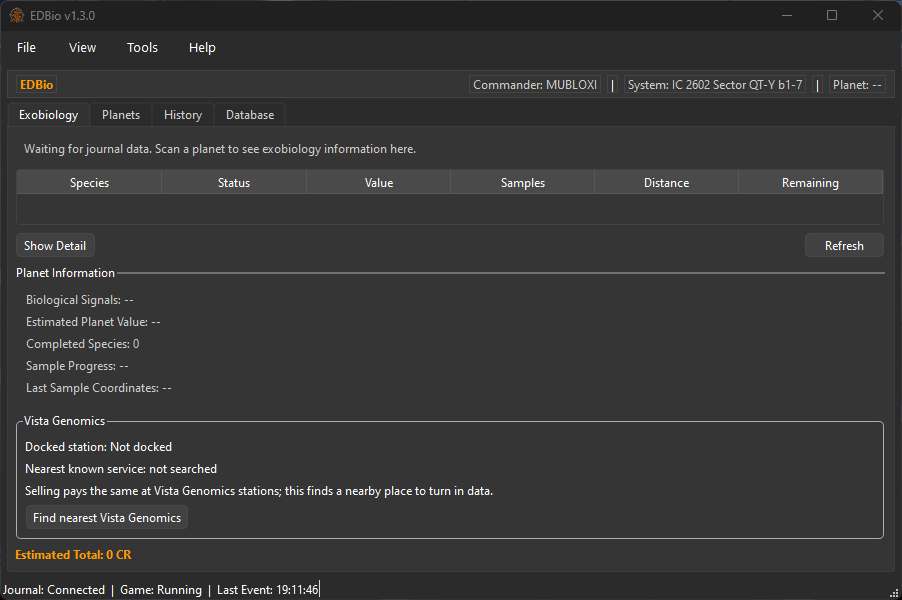
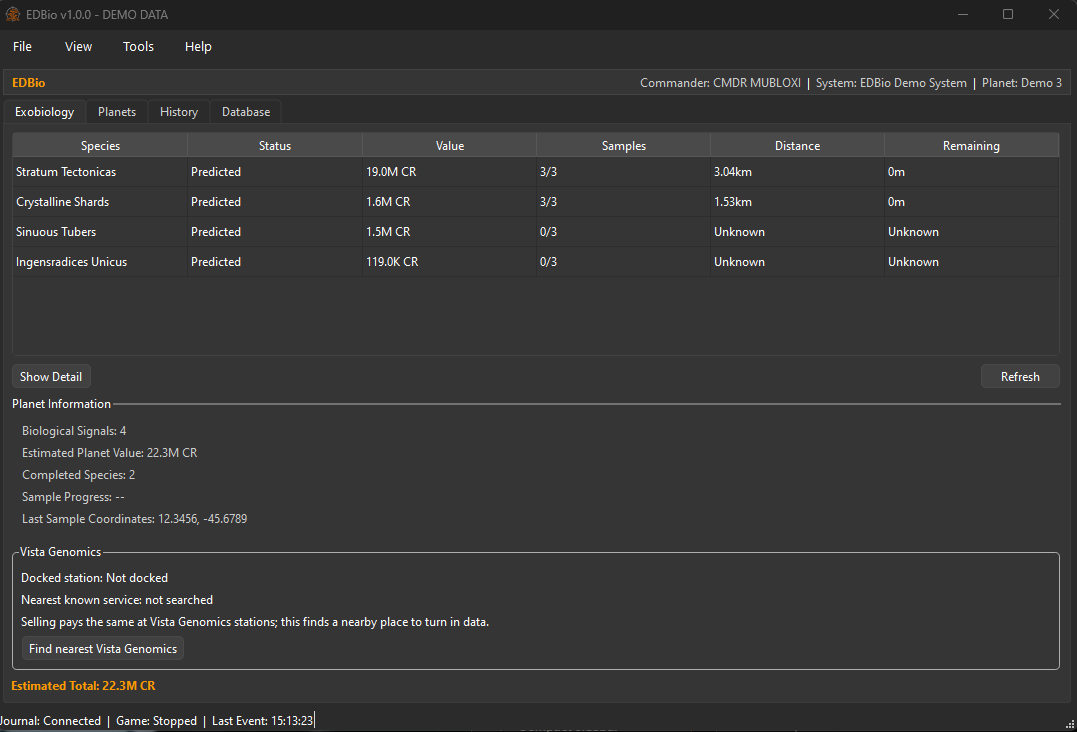
docs: simplify README and add screenshots

diff --git a/README.md b/README.md
@@ -1,94 +1,98 @@
 # EDBio
 
-EDBio is a standalone Windows desktop tool for Elite Dangerous: Odyssey
-commanders who want to keep their exobiology work organized. It follows the
-game's journal as it changes and brings the current commander, system, planet,
-biological signals, sample progress, and estimated Vista Genomics value into
-one compact application. No account or companion service is required.
+EDBio is a Windows app for Elite Dangerous: Odyssey. It reads your game journal
+and helps you track bio signals, possible species, samples, credits, and past
+finds. It works on your PC. You do not need an account.
 
-Use EDBio to move from a planet scan to completed genetic samples: review
-possible species, see what is known about their requirements, track the
-Log / Sample / Analyse sequence, and check the distance needed before taking
-the next sample. Predictions are identified as predictions, not confirmed
-discoveries, and credit values and first-footfall bonuses are estimates rather
-than guaranteed payouts.
+Species are shown as predictions, not confirmed finds. Credit amounts and
+first footfall bonuses are estimates. The game decides the real payout.
 
-EDBio keeps discovery history in a local SQLite database, with search, CSV
-export, database inspection, and backups. Optional sound alerts can notify you
-when an FSS scan finds biological signals, and an optional overlay can show
-bio-signal information while Elite Dangerous is the foreground application.
-The nearby Vista Genomics search uses public Spansh station data to help find a
-turn-in location; station listings may be out of date.
+Your history stays in a local SQLite database. You can search it, export it to
+CSV, view saved data, and make backups. You can also turn on sound alerts and
+an in-game bio overlay. The Spansh search can help find a nearby Vista Genomics
+station. Its station list may be out of date.
 
-## Screenshot
+## Screenshots
 
-![EDBio Exobiology tab captured from the running Windows application](docs/screenshots/edbio-exobiology.png)
+These are screenshots of the Windows app. The commander, system, planets, and
+bio data are fake demo data. They are not from a live game session.
 
-*Direct capture of EDBio v1.3.0. The live session had no biological signals; no mock rows or browser-rendered UI are shown. The interface may differ from the v1.0.0 installer.*
+### Normal theme
+
+![Exobiology tab in the normal theme](docs/screenshots/edbio-exobiology.png)
+![Planets tab in the normal theme](docs/screenshots/edbio-planets.png)
+![History tab in the normal theme](docs/screenshots/edbio-history.png)
+![Settings dialog in the normal theme](docs/screenshots/edbio-settings.png)
+![Database tab in the normal theme](docs/screenshots/edbio-database.png)
+
+### OLED theme
+
+![Exobiology tab in the OLED theme](docs/screenshots/edbio-oled-exobiology.png)
+![Planets tab in the OLED theme](docs/screenshots/edbio-oled-planets.png)
+![History tab in the OLED theme](docs/screenshots/edbio-oled-history.png)
+![Database tab in the OLED theme](docs/screenshots/edbio-oled-database.png)
 
 ## Features
 
-- Reads Elite Dangerous journal files in real time (incremental, handles rotation)
-- Detects the current commander, system, and planet from the journal
-- Lists biological signals and predicted species for the active planet
-- Tracks genetic sample progress using ScanOrganic events (Log / Sample / Analyse)
-- Calculates surface distance from the reference sample using great-circle math
-- Shows estimated Vista Genomics payouts per species and per planet
-- First footfall multiplier shown as an estimate, never guaranteed
-- History tab with search, filtering, and CSV export (stored in SQLite)
-- Database tab for inspecting saved records and creating SQLite backups
-- Rust-backed incremental journal file reading
-- Always-on-top, minimize to system tray, remembers window size and position
-- Optional sound alert when an FSS scan finds biological signals, with grouped
-  previewable sound choices and custom MP3, WAV, or OGG imports
-- Optional in-game bio overlay showing the planet, signal count, and identified
-  genera when available
-- Journal-based docked-station detection and one-click nearby Vista Genomics
-  station search using Spansh station data
-- Manual journal directory selection
-- Settings dialog and About dialog
+- Reads your game journal and keeps up with new log files
+- Shows your commander, system, and planet
+- Shows bio signals and possible species for the current planet
+- Tracks the Log / Sample / Analyse steps and the distance needed for the next sample
+- Shows estimated Vista Genomics credits for species and planets
+- Shows first footfall as an estimate
+- Saves your finds in a history you can search and export to CSV
+- Lets you check saved data and back up the database
+- Uses a Rust reader to load journal files
+- Can stay on top, go to the system tray, and remember its window size
+- Can play a sound when an FSS scan finds bio signals
+- Includes built-in sounds and lets you add MP3, WAV, and OGG files
+- Can show the planet, signal count, and known genera in an in-game overlay
+- Finds your docked station from the journal and can search Spansh for a nearby
+  Vista Genomics station
+- Finds your journal folder and reads old logs into the database
+- Lets you choose the journal folder yourself if needed
+- Includes Settings and About screens
 
 ## Download
 
-Pre-built Windows installers are available on the GitHub Releases page for this
-repository. [Download the EDBio 1.0.0 Windows installer](https://github.com/Mubloxi/EDBio/releases/download/v1.0.0/EDBio-Setup-1.0.0.exe)
-or open the [GitHub Releases page](https://github.com/Mubloxi/EDBio/releases).
-Run `EDBio-Setup-1.0.0.exe` to install EDBio for the current Windows user. The
-desktop shortcut option is checked by default in the installer.
+Get the [EDBio 1.0.0 Windows installer](https://github.com/Mubloxi/EDBio/releases/download/v1.0.0/EDBio-Setup-1.0.0.exe)
+or see the [GitHub Releases page](https://github.com/Mubloxi/EDBio/releases).
+Run `EDBio-Setup-1.0.0.exe` to install the app for your Windows user. The
+installer offers a desktop shortcut, checked by default.
 
 ## How To Use
 
-1. Download and run `EDBio-Setup-1.0.0.exe`. Python does not need to be
-   installed.
-2. On first launch, choose a bio-alert sound and use Preview to test it.
-3. Start Elite Dangerous and load into a game.
-4. EDBio detects the journal directory automatically
-   (%USERPROFILE%\Saved Games\Frontier Developments\Elite Dangerous\).
-   If it doesn't, use File > Journal Directory to pick it manually.
-5. Fly to a planet, scan it, and use the Surface Area Scanner. Biological
-   signals, predicted species, and sample tracking appear in the Exobiology tab.
-6. Land and collect genetic samples. Sample progress, distance required, and
-   distance remaining update as you move.
-7. Use the History tab to review past discoveries and export to CSV.
+1. Download and run `EDBio-Setup-1.0.0.exe`. You do not need to install Python.
+2. The first time you open EDBio, pick a sound and use Preview to hear it.
+3. Start Elite Dangerous and load into the game.
+4. EDBio finds your journal folder and reads its old logs. If it cannot find the
+   folder, use File > Journal Directory to choose it.
+5. Scan a planet and use the Surface Area Scanner. Open the Exobiology tab to
+   see bio signals, possible species, and sample progress.
+6. Land and take samples. EDBio updates the sample count and distance as you move.
+7. Open History to check your past finds or export them to CSV.
 
-Enable the sound alert and the optional overlay in Tools > Settings or View.
-The overlay only appears while Elite Dangerous is the foreground application;
-set the game display mode to Borderless or Windowed for it to appear.
-Add personal alert sounds from Tools > Settings. The Exobiology tab shows your
-docked station and can search Spansh for the nearest listed Vista Genomics
-service using the selected radius (25 to 1000 ly). Selling prices do not depend on
-which Vista Genomics station you use; the search recommends a nearby turn-in
-location, not a higher payout. Station listings are community data and may be
-out of date; an internet connection is required to search.
+Turn on sound alerts and the overlay in Tools > Settings or View. EDBio starts
+with the normal dark gray theme. Choose View > OLED theme for a mostly black
+screen. This also changes the Database tab.
 
-The application opens normally even when Elite Dangerous is closed, showing
-saved data from previous sessions.
+The overlay only shows while Elite Dangerous is the active window. Set the
+game to Borderless or Windowed mode to use it.
+
+You can add your own sounds in Tools > Settings. The Exobiology tab shows your
+docked station and can search Spansh for a nearby Vista Genomics station.
+Choose a search range from 25 to 1000 ly. The station does not change your
+payout. Spansh data may be out of date, and station search needs an internet
+connection.
+
+EDBio can also open when the game is closed. It will show data saved from
+earlier sessions.
 
 ## Requirements
 
 - Windows 10 or Windows 11
-- Elite Dangerous with Odyssey (for journal-based tracking)
-- No Python installation required for the pre-built executable
+- Elite Dangerous with Odyssey, if you want journal tracking
+- No Python needed for the installer
 
 ## Building From Source
 
@@ -117,24 +121,23 @@ python build_exe.py
 ISCC.exe installer\EDBio.iss
 ```
 
-The source build requires Python 3.12+, PySide6-WebEngine, Node.js/npm,
-Rust/Cargo, and the Microsoft C++ Build Tools workload. `--components-only`
-configures the local Rust extension and compiles the web panel before running
-from source. The executable and installer are written to `dist\`.
-Station searches use the public Spansh stations API
-(`https://spansh.co.uk/api/stations/search`); no API key or commander account
-is required.
+To build from source, you need Python 3.12 or newer, PySide6-WebEngine,
+Node.js/npm, Rust/Cargo, and Microsoft C++ Build Tools.
+`--components-only` builds the Rust reader and database panel so you can run
+from source. The app and installer are saved in `dist\`.
+
+Station search uses Spansh public data
+(`https://spansh.co.uk/api/stations/search`). You do not need an API key or
+commander account.
 
 ## Known Issues
 
-- Species prediction relies on community-documented environmental requirements.
-  Some species have incomplete requirement data and are shown with whatever is
-  known; missing requirements do not prevent a prediction but reduce confidence.
-- First footfall bonuses are estimates. The game determines actual first
-  footfall eligibility, which EDBio cannot verify from the journal.
-- Genetic distance tracking requires the player to be on the planet surface
-  with latitude and longitude available (Touchdown event). Without coordinates,
-  distance is shown as Unknown.
+- Some species data is incomplete. EDBio shows what is known, but may list
+  extra possible species when details are missing.
+- The game decides who gets first footfall. EDBio cannot check this from the
+  journal, so the bonus is only an estimate.
+- Distance tracking needs your location on the planet. If the journal has no
+  latitude or longitude, EDBio shows the distance as Unknown.
 
 ## Credits
 
@@ -148,16 +151,14 @@ Project: [Mubloxi/EDBio](https://github.com/Mubloxi/EDBio)
 - TypeScript - Apache-2.0
 - pytest - MIT
 
-Biological reference data and Vista Genomics prices are compiled from public
-Elite Dangerous community documentation (ED-DSN, Canonn, Elite Dangerous Wiki).
-Species names, planetary data, and Elite Dangerous content are the property of
-Frontier Developments plc.
+Bio data and Vista Genomics prices come from public Elite Dangerous community
+sources, including ED-DSN, Canonn, and the Elite Dangerous Wiki. Elite
+Dangerous and its names belong to Frontier Developments plc.
 
-This project does not incorporate code from EDMC BioScan (GPL) or EDEXO
-(PolyForm Noncommercial / CC BY-NC-SA), both of which carry incompatible
-licenses for this project.
+EDBio does not use code from EDMC BioScan or EDEXO because their licenses do
+not fit this project.
 
 ## Disclaimer
 
-EDBio is not affiliated with Frontier Developments, the developers of Elite
-Dangerous. Elite Dangerous is a trademark of Frontier Developments plc.
+EDBio is not made by or connected to Frontier Developments. Elite Dangerous is
+a trademark of Frontier Developments plc.
